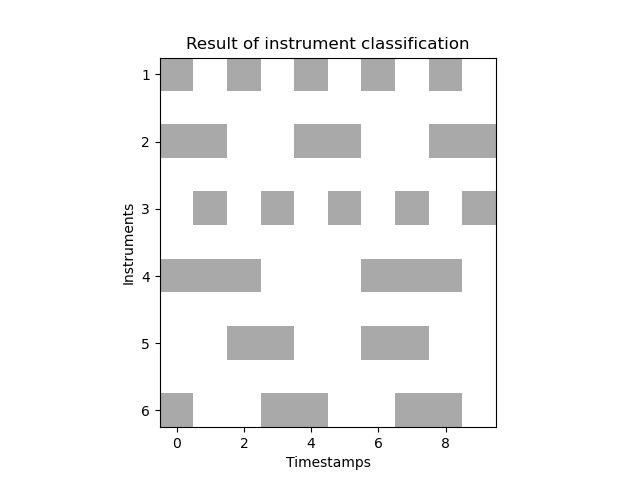
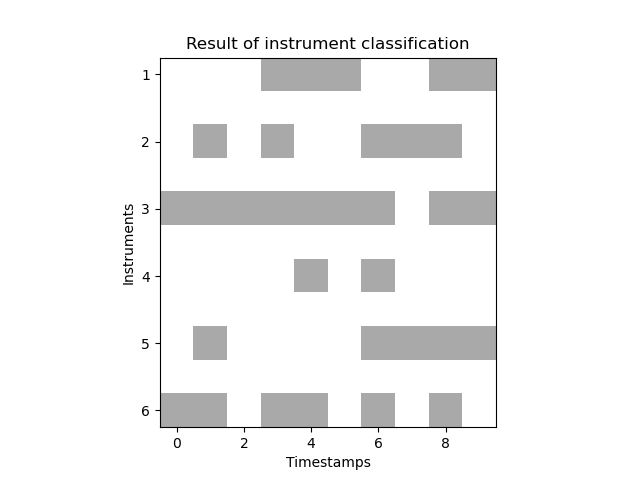
added random generated json and reloads after button is pressed

diff --git a/src/html/index.html b/src/html/index.html
@@ -29,13 +29,13 @@
 
         <!-- Div to center the image -->
         <div class="center-image">
-            <img src="output.png" alt="Description of the image">
+            <img id="output-image" src="output.png" alt="Intervals">
         </div>
 
         <!-- Div to center the button -->
         <div class="center-button">
-            <!-- Modified button to trigger the Go function -->
-            <button id="generate-json-btn" hx-get="/generate-json" class="btn btn-primary mt-3">Generate JSON</button>
+            <!-- Modified button to trigger both Go function and Python script -->
+            <button id="generate-btn" hx-post="/generate-json" hx-trigger="click" hx-target="#output-image" hx-swap="outerHTML" class="btn btn-primary mt-3" onclick="reloadPage()">Generate Image</button>
         </div>
     </div>
 
@@ -43,11 +43,11 @@
     <script src="https://code.jquery.com/jquery-3.5.1.slim.min.js"></script>
     <script src="https://cdn.jsdelivr.net/npm/@popperjs/core@2.5.4/dist/umd/popper.min.js"></script>
     <script src="https://maxcdn.bootstrapcdn.com/bootstrap/4.5.2/js/bootstrap.min.js"></script>
+
     <script>
-        document.getElementById('generate-json-btn').addEventListener('click', function() {
-            // Manually trigger the button's htmx behavior
-            this.click();
-        });
+        function reloadPage() {
+            location.reload();
+        }
     </script>
 </body>
 </html>

diff --git a/src/main.go b/src/main.go
@@ -6,9 +6,25 @@ import (
 	"math/rand"
 	"net/http"
 	"os"
+	"os/exec"
 	"path/filepath"
 	"time"
 )
+
+func main() {
+	// Serve static files from src/html directory
+	http.Handle("/", http.FileServer(http.Dir("src/html")))
+
+	// Handle requests for generating JSON data
+	http.HandleFunc("/generate-json", HandleGenerateJSONAndCallPythonScript)
+
+	// Handle requests to the root route
+
+	fmt.Println("Server started at :8080")
+	if err := http.ListenAndServe(":8080", nil); err != nil {
+		fmt.Println("Error starting server:", err)
+	}
+}
 
 type Instrument struct {
 	Name      string `json:"name"`
@@ -17,6 +33,30 @@ type Instrument struct {
 
 type CarnaticData struct {
 	Instruments []Instrument `json:"instruments"`
+}
+
+func HandleGenerateJSONAndCallPythonScript(w http.ResponseWriter, r *http.Request) {
+	// Generate JSON file
+	fileName := "input.json"
+	err := GenerateAndWriteJSON(fileName)
+	if err != nil {
+		http.Error(w, "Error generating JSON: "+err.Error(), http.StatusInternalServerError)
+		return
+	}
+
+	// Call Python script
+	cmd := exec.Command("python3", "src/python/script.py", fileName)
+	err = cmd.Run() // Run the command without capturing output
+	if err != nil {
+		http.Error(w, "Error calling Python script: "+err.Error(), http.StatusInternalServerError)
+		return
+	}
+
+	// If the script generates an image, you might want to set appropriate headers
+	w.Header().Set("Content-Type", "image/jpeg")
+
+	// Optionally, you can send a success status code
+	w.WriteHeader(http.StatusOK)
 }
 
 func GenerateAndWriteJSON(fileName string) error {
